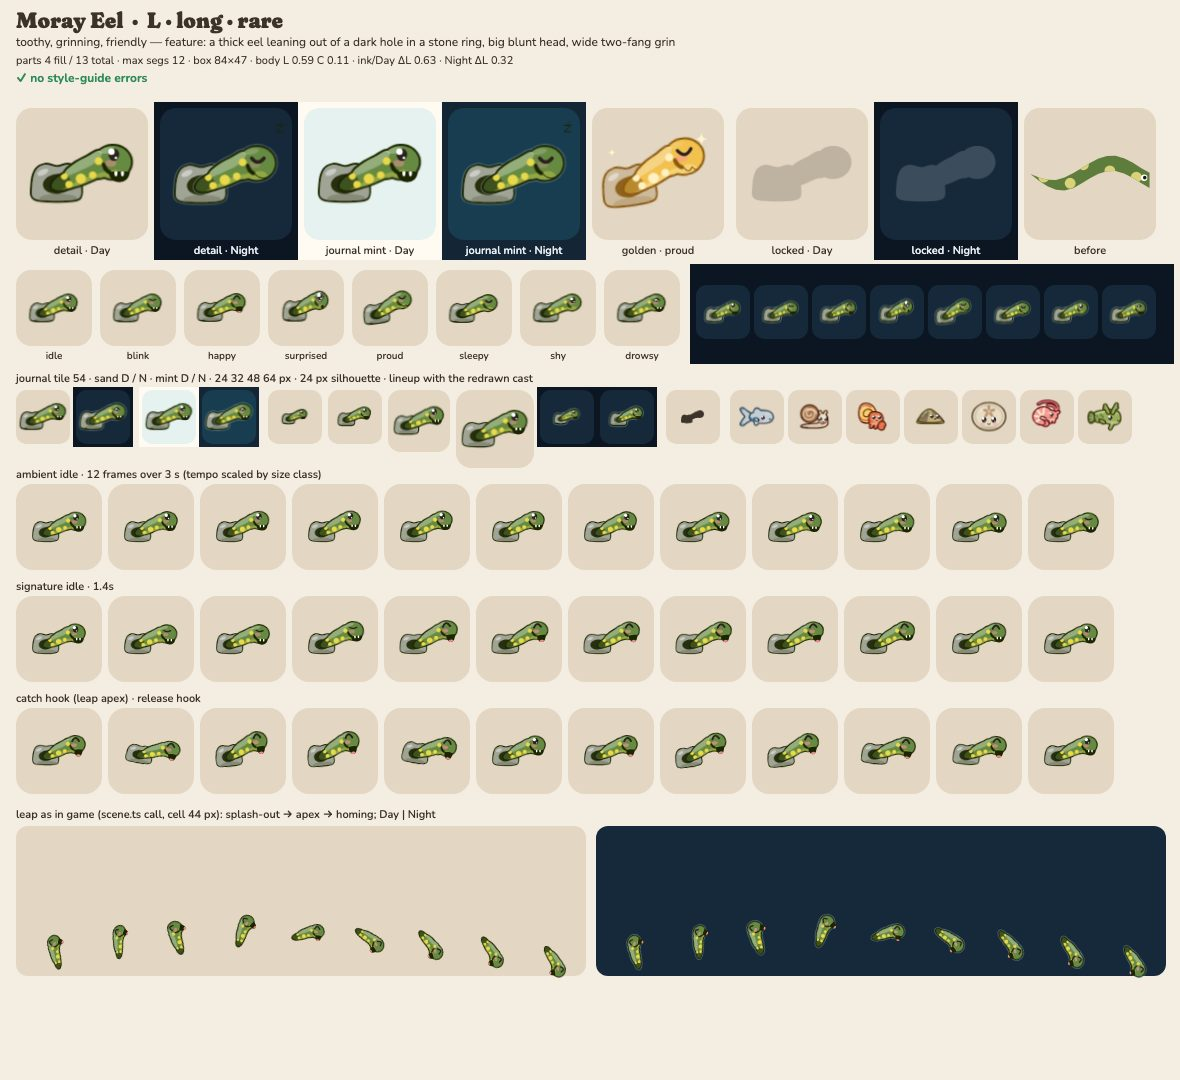
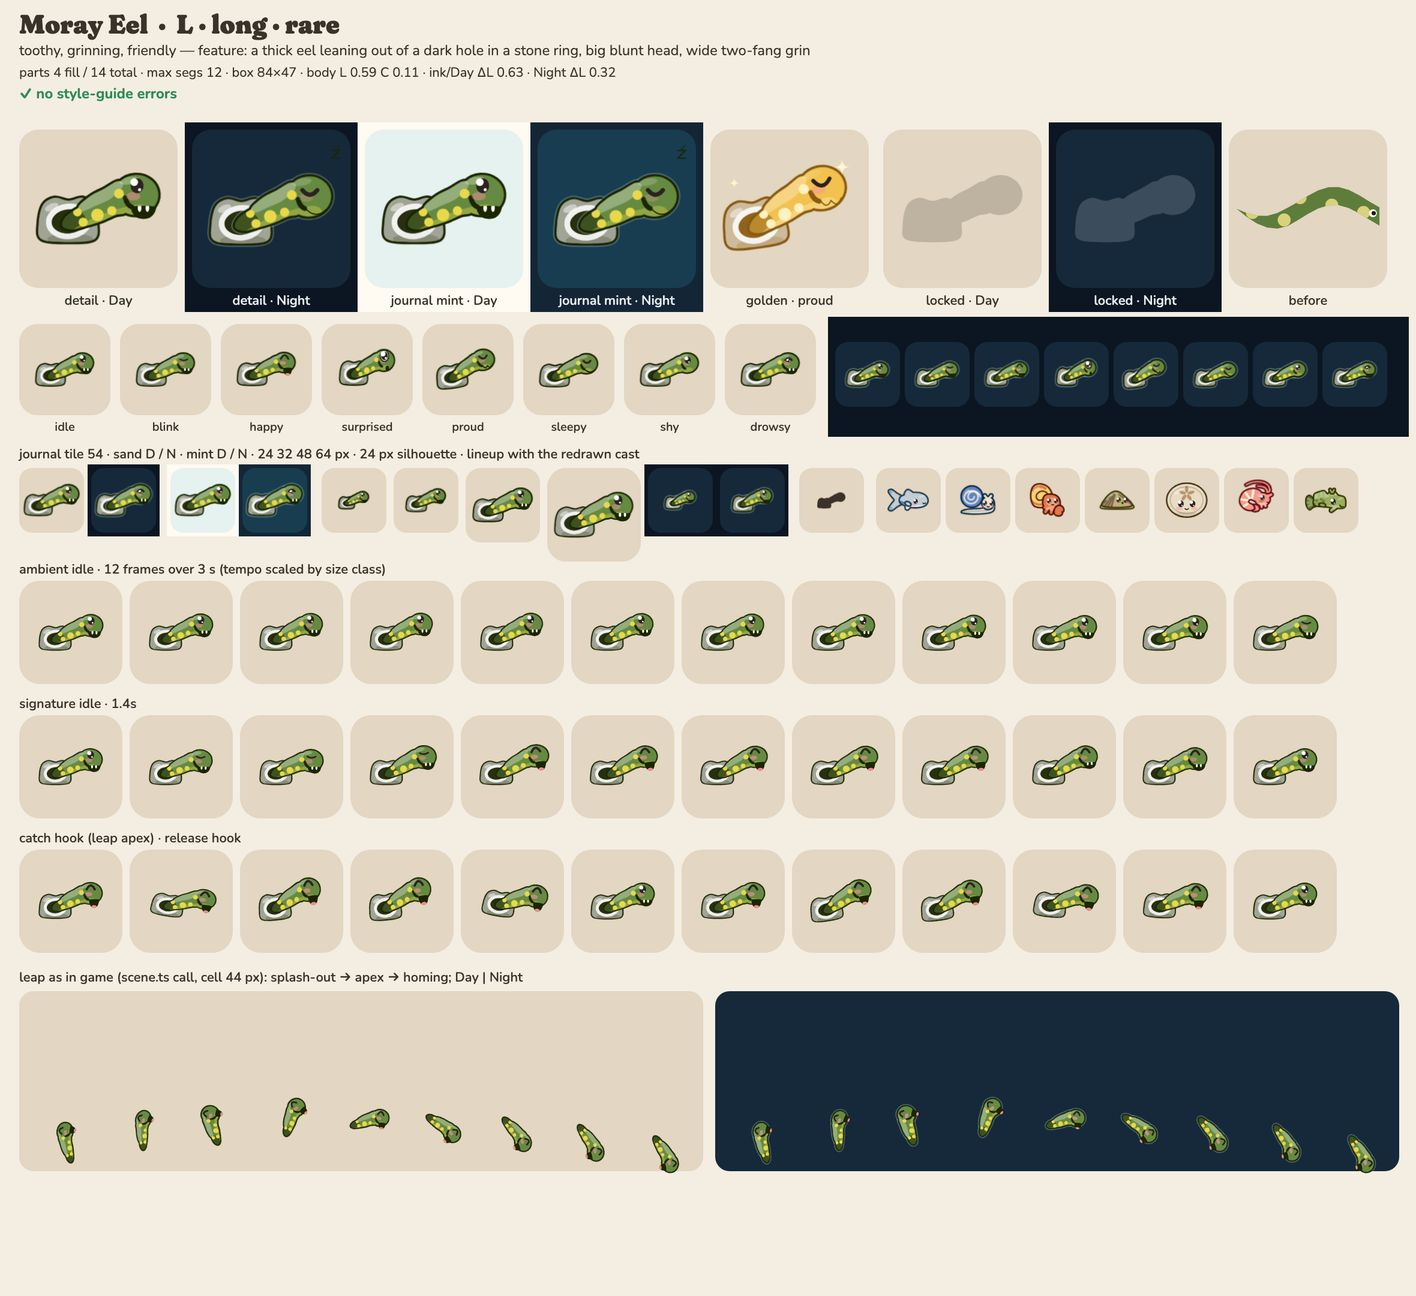
render: moray art (ADR 0011)
CRITIQUE-4 A- fix: a 4 u light lip (white line, 85 %) around the hole
opening, so the burrow reads at 24 px instead of a sock. The golden rock
still takes the golden ink wash (tan): keeping it grey #8E8A80 needs a
kit option (a part colour exempt from the golden remap); reported.
Sheet: no style-guide errors.

diff --git a/src/render/art/species/moray.ts b/src/render/art/species/moray.ts
@@ -61,6 +61,8 @@ export default defineArt({
         { d: ellipse(-37, -1.5, 5, 2.4, -25), role: 'white', kind: 'pattern', alpha: 0.45 },
         { d: ellipse(-24, 21, 16, 4), role: 'ink', kind: 'pattern', alpha: 0.2 },
         { d: hole, role: 'ink', kind: 'pattern', alpha: 0.92 },
+        // a 4 u light lip around the opening: the hole survives at 24 px (CRITIQUE-4: a sock)
+        { d: ellipse(-25, 8.5, 14, 10.5, -6), role: 'white', kind: 'line', w: 4, alpha: 0.85 },
       ],
     },
     {
